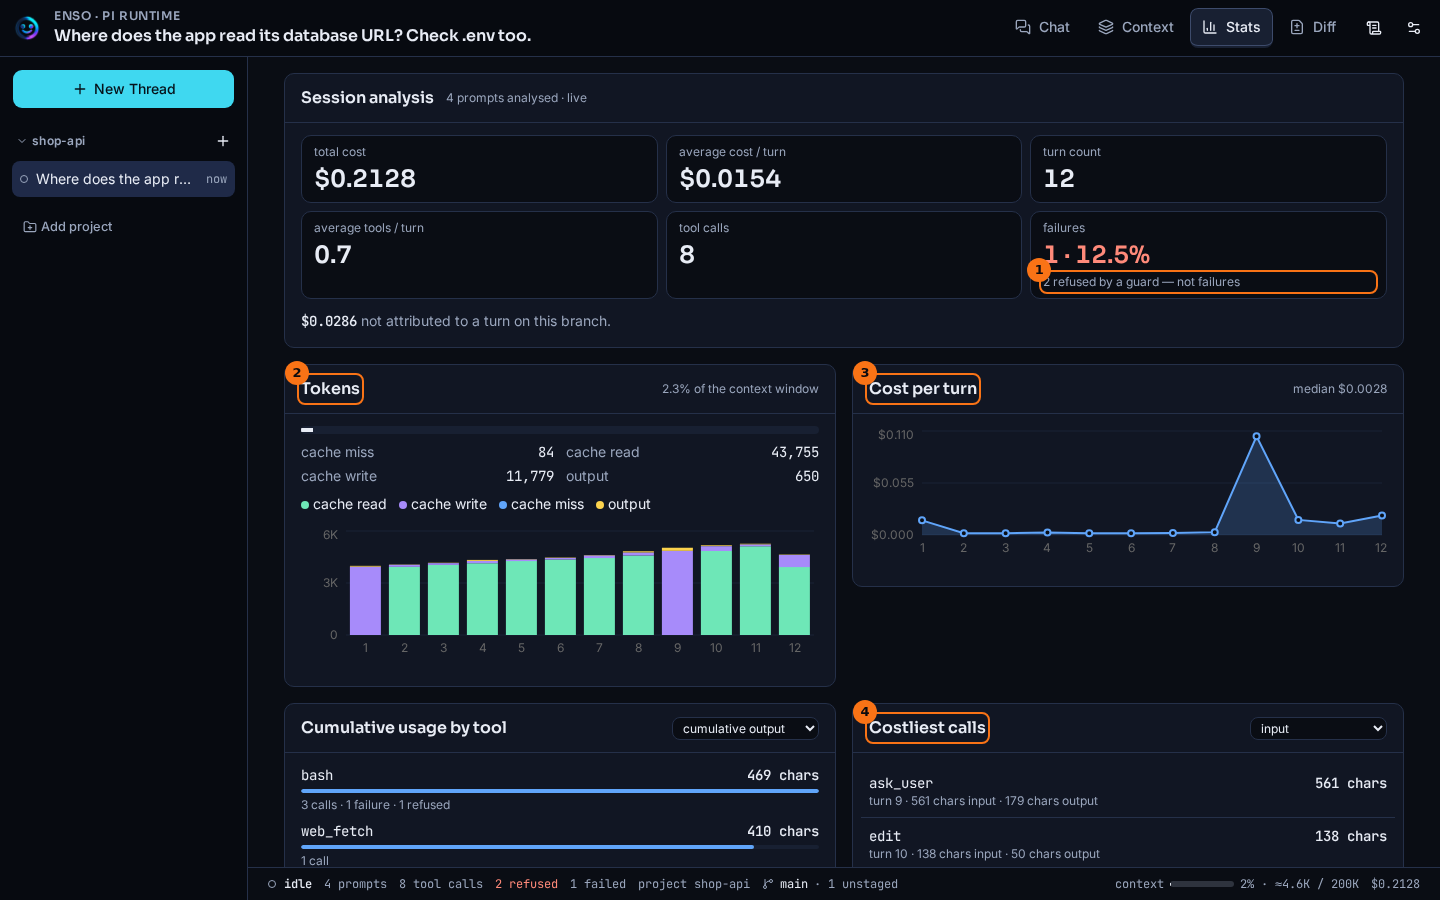
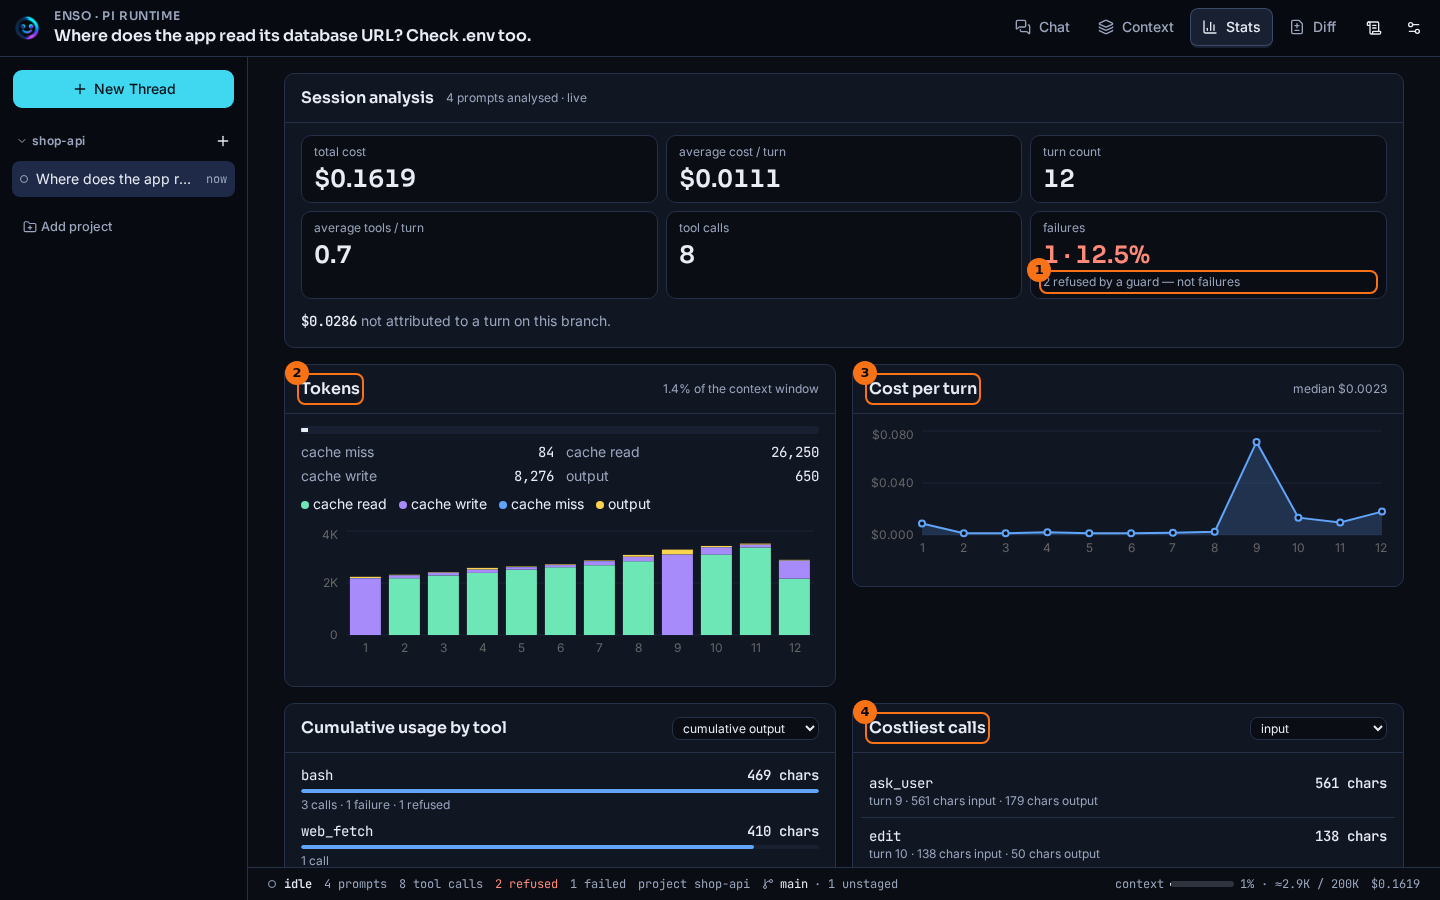
docs(features): landing copies without rings; the capture runs again under the new engine (#511)
- features/landing.ts#LANDING_SHOTS names the Features shots the landing shows; the capture takes
  each again, right after the ringed one, with no rings (optionally cropped) into
  site/src/assets/landing/captured/. On the landing there is no legend, so the rings were clutter,
  and one hid the receipt's rule line.
- The capture had not run since the permission-engine switch (#496): the default policy asks
  before web_fetch, and prompt 2's fetch waited on a question the script never answers. Its home
  now allows web_fetch, so the fetch reaches web_fetch's own allowlist refusal as scripted.
- Regenerated: 18 Features images and 3 facts files (the old engine's allow-all option is gone,
  the compaction and the cost changed with the fetch running).
- features-gate: every landing shot is a spec'd shot, and the directory holds exactly their copies.

diff --git a/scripts/docs/feature-screenshots.ts b/scripts/docs/feature-screenshots.ts
@@ -2,9 +2,10 @@ import { type ChildProcess, spawn, spawnSync } from 'node:child_process'
 import { existsSync, mkdirSync, readFileSync, rmSync, writeFileSync } from 'node:fs'
 import { createConnection } from 'node:net'
 import { tmpdir } from 'node:os'
-import { delimiter, dirname, join } from 'node:path'
+import { delimiter, dirname, join, relative } from 'node:path'
 import { type Browser, chromium, type Locator, type Page } from '@playwright/test'
 import { findRepoRoot } from '../../packages/core/src/paths.ts'
+import { ENSO_DEFAULT_PERMISSION_POLICY } from '../../packages/core/src/permission-rules.ts'
 import { startFeatureModel } from './feature-model.ts'
 import {
   ANSWER_ENDINGS,
@@ -17,6 +18,7 @@ import {
   SECOND_MODEL,
 } from './feature-session.ts'
 import { FEATURE_SPECS } from './features/index.ts'
+import { LANDING_SHOTS, LANDING_SHOTS_DIRECTORY } from './features/landing.ts'
 import {
   type FeatureFacts,
   type FeatureSpec,
@@ -242,19 +244,20 @@ let sessionPlaying = false
  * One shot: annotate, capture, clear the annotations. The capture is the whole viewport, or the
  * smallest rectangle holding every locator in `region` — padded, so a badge at the edge of the
  * region is not cut in half. The region is cropped by screenshotting a transparent box laid over
- * it: an element screenshot takes whatever is painted inside that element's bounds.
+ * it: an element screenshot takes whatever is painted inside that element's bounds. It lands in
+ * `docs/features/images/<name>.png` unless `path` says otherwise (the landing's copies, #511).
  */
 async function shoot(
   page: Page,
   name: string,
   annotations: readonly Annotation[],
-  region: readonly Locator[] = [],
+  options: { readonly region?: readonly Locator[]; readonly path?: string } = {},
 ): Promise<void> {
   if (sessionPlaying && ONLY !== undefined) return
+  const { region = [], path = join(OUT, `${name}.png`) } = options
   const anchor = annotations[0]?.target ?? region[0]
   if (anchor !== undefined) await steady(anchor)
   await annotate(page, annotations)
-  const path = join(OUT, `${name}.png`)
   if (region.length === 0) await page.screenshot({ path })
   else {
     const boxes = await Promise.all(region.map((locator) => rectangleOf(locator, `${name}'s region`)))
@@ -267,7 +270,7 @@ async function shoot(
     await page.locator('[data-feature-annotation]').last().screenshot({ path })
   }
   await clearAnnotations(page)
-  process.stdout.write(`feature-screenshots: wrote docs/features/images/${name}.png\n`)
+  process.stdout.write(`feature-screenshots: wrote ${relative(ROOT, path)}\n`)
 }
 
 /**
@@ -508,8 +511,17 @@ async function captureShot(page: Page, spec: FeatureSpec, shot: Shot, steps: rea
     page,
     shot.image,
     targets.map((target, markIndex) => ({ target, label: String(markIndex + 1) })),
-    (shot.region ?? []).map((target) => locate(page, target)),
+    { region: (shot.region ?? []).map((target) => locate(page, target)) },
   )
+  // The landing's copy (#511): the same screen, settled by the ringed shot, with no rings.
+  const landing = LANDING_SHOTS[shot.image]
+  if (landing !== undefined) {
+    mkdirSync(join(ROOT, LANDING_SHOTS_DIRECTORY), { recursive: true })
+    await shoot(page, shot.image, [], {
+      region: (landing.region ?? shot.region ?? []).map((target) => locate(page, target)),
+      path: join(ROOT, LANDING_SHOTS_DIRECTORY, `${shot.image}.png`),
+    })
+  }
   const measured: Record<string, string> = {}
   for (const [quoted, element] of Object.entries(shot.measure ?? {})) {
     measured[quoted] = await textOf(await element(page))
@@ -636,6 +648,21 @@ async function main(): Promise<void> {
   mkdirSync(join(home, 'pi-agent'), { recursive: true })
   writeFileSync(join(home, 'pi-agent', 'models.json'), JSON.stringify(MODELS_JSON, null, 2))
   writeFileSync(join(home, 'pi-agent', 'settings.json'), JSON.stringify(PI_SETTINGS, null, 2))
+  // The permission policy (#496): Enso's default, with `web_fetch` allowed. The default asks before
+  // every fetch, and prompt 2's fetch is scripted to reach web_fetch's OWN allowlist refusal — what
+  // Web access documents — not a permission question the script has no answer for. (Found when the
+  // capture first ran after the engine switch: it waited on that question until it timed out.)
+  writeFileSync(
+    join(home, 'permissions.json'),
+    JSON.stringify(
+      {
+        ...ENSO_DEFAULT_PERMISSION_POLICY,
+        permission: { ...ENSO_DEFAULT_PERMISSION_POLICY.permission, web_fetch: 'allow' },
+      },
+      null,
+      2,
+    ),
+  )
   mkdirSync(join(home, 'prompts'))
   for (const [file, text] of Object.entries(PROMPT_LIBRARY)) writeFileSync(join(home, 'prompts', file), text)
   for (const [path, text] of Object.entries(DEMO_FILES)) {

diff --git a/test/features-gate.test.ts b/test/features-gate.test.ts
@@ -3,7 +3,7 @@ import { existsSync, readdirSync, readFileSync } from 'node:fs'
 import { basename, join } from 'node:path'
 import { builtFeaturePages, renderedFeaturePages } from '../scripts/docs/feature-pages.ts'
 import { FEATURE_SPECS } from '../scripts/docs/features/index.ts'
-import { LANDING_FEATURE_GROUPS } from '../scripts/docs/features/landing.ts'
+import { LANDING_FEATURE_GROUPS, LANDING_SHOTS, LANDING_SHOTS_DIRECTORY } from '../scripts/docs/features/landing.ts'
 import { type FeatureFacts, factsPath } from '../scripts/docs/features/spec.ts'
 import { quotedLiterals, REPOSITORY_ROOT, sourceFiles } from './gate-support.ts'
 
@@ -179,4 +179,19 @@ test('⚠ the landing groups every Features page exactly once, and names nothing
     unknown: grouped.filter((id) => !specs.includes(id)),
     twice: grouped.filter((id, position) => grouped.indexOf(id) !== position),
   }).toEqual({ ungrouped: [], unknown: [], twice: [] })
+})
+
+// #511: the landing shows Features shots taken again without their rings. A shot renamed or dropped
+// from its spec would leave the landing a copy nobody regenerates; a copy with no entry is dead
+// weight the site still ships. Recapture with `bun run docs:screenshots`.
+test('⚠ every landing shot is a spec’d Features shot, and exactly those have their unringed copy (#511)', () => {
+  const specShots = new Set(FEATURE_SPECS.flatMap((spec) => spec.shots.map((shot) => shot.image)))
+  const wanted = Object.keys(LANDING_SHOTS)
+  const directory = join(REPOSITORY_ROOT, LANDING_SHOTS_DIRECTORY)
+  const copies = existsSync(directory) ? readdirSync(directory) : []
+  expect({
+    unknown: wanted.filter((image) => !specShots.has(image)),
+    missing: wanted.filter((image) => !copies.includes(`${image}.png`)),
+    stray: copies.filter((file) => !wanted.includes(basename(file, '.png'))),
+  }).toEqual({ unknown: [], missing: [], stray: [] })
 })

diff --git a/scripts/docs/features/landing.ts b/scripts/docs/features/landing.ts
@@ -1,5 +1,5 @@
 import { FEATURE_SPECS } from './index.ts'
-import type { FeatureSpec } from './spec.ts'
+import type { FeatureSpec, MarkTarget } from './spec.ts'
 
 /**
  * The feature map on the site's landing page (`site/src/pages/index.astro`, #504): four groups,
@@ -70,4 +70,35 @@ export function landingFeatureGroups(): ResolvedLandingGroup[] {
       return spec
     }),
   }))
+}
+
+/**
+ * The Features screenshots the landing page shows (#511), each taken a second time WITHOUT its
+ * numbered rings. On a Features page every ring matches a legend line below the image; the landing
+ * has no legend, so there the rings are clutter, and a ring drawn over a receipt hides the line the
+ * receipt exists to show.
+ *
+ * `feature-screenshots.ts` takes each copy in the same session, right after the ringed shot, into
+ * `LANDING_SHOTS_DIRECTORY` — so the landing's evidence is regenerated with the docs', never kept
+ * by hand. `region` crops the copy for the landing's narrower columns (absent: the ringed shot's
+ * own crop, else the whole viewport). `features-gate.test.ts` holds every key to a spec'd shot and
+ * the directory to exactly these copies.
+ */
+export interface LandingShot {
+  readonly region?: readonly MarkTarget[]
+}
+
+export const LANDING_SHOTS_DIRECTORY = 'site/src/assets/landing/captured'
+
+/** Keyed by the Features shot's image stem (`Shot['image']`). */
+export const LANDING_SHOTS: Readonly<Record<string, LandingShot>> = {
+  'questions-ask-user': {},
+  // The dialog alone: the full viewport leaves it too small to read in a half-width column.
+  'sessions-start': { region: [{ role: 'dialog', name: 'Start a session' }] },
+  'prompts-manager': { region: [{ role: 'dialog', name: 'Prompts', exact: true }] },
+  'context-now-trend': {},
+  diff: {},
+  'lineage-fork': {},
+  'lineage-fork-point': {},
+  'guards-receipt': {},
 }
